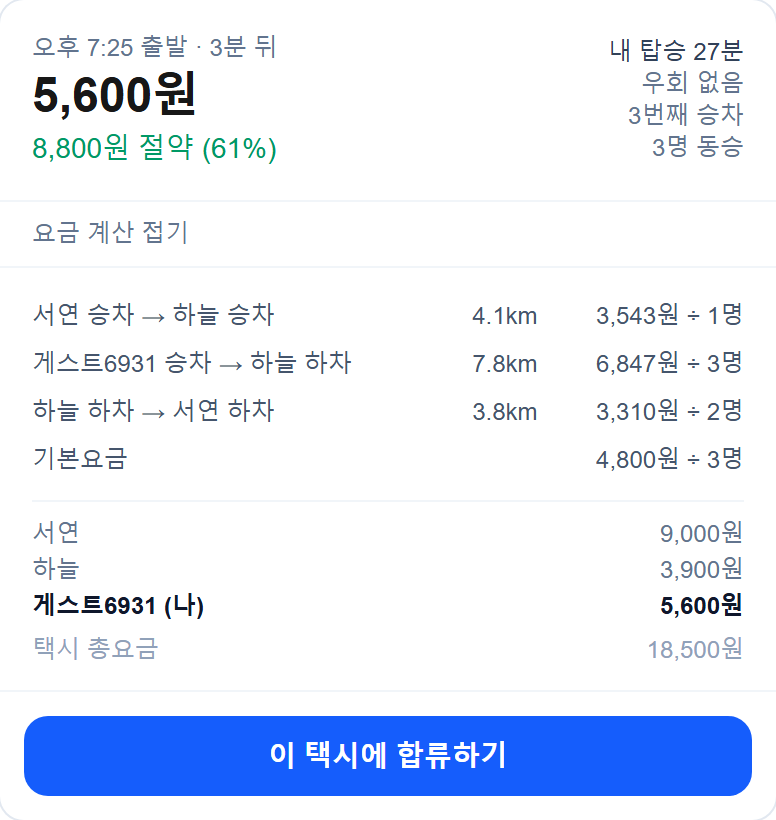
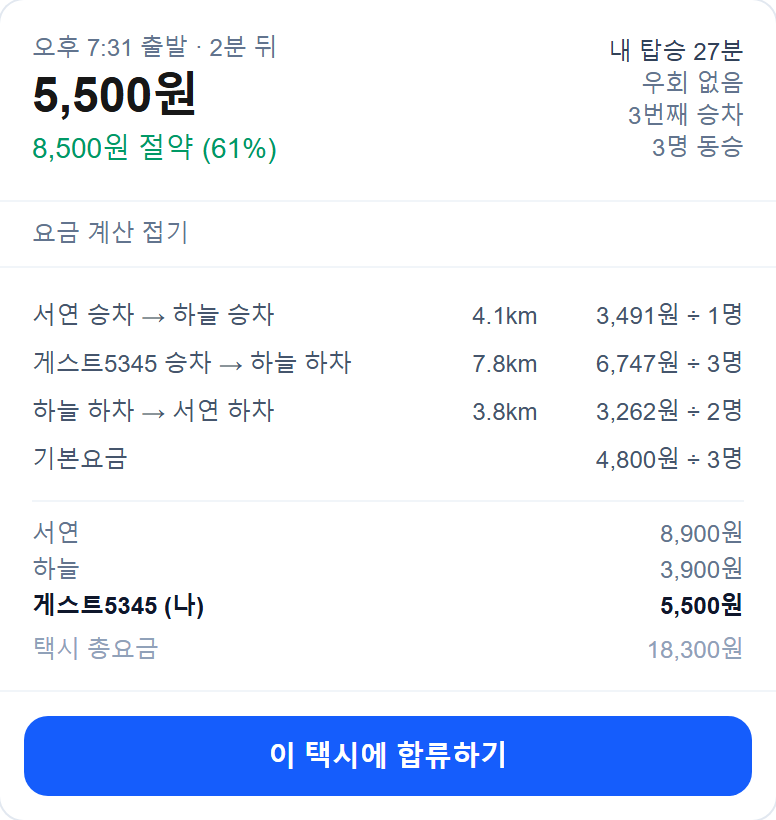
docs: 스크린샷을 새 서비스명으로 갱신
이름을 바꾼 뒤 스크린샷에 옛 이름이 남아 있었다.
README 의 정산 예시 숫자도 새 화면과 일치시켰다.

diff --git a/README.md b/README.md
@@ -19,15 +19,15 @@
 <img src="public/screenshots/3-breakdown.png" width="380" alt="구간별 정산 근거" />
 
 ```
-서연 승차 → 하늘 승차      4.1km    3,543원 ÷ 1명   ← 서연 혼자
-하늘 승차 → 하늘 하차      7.8km    6,847원 ÷ 3명   ← 셋이 함께
-하늘 하차 → 서연 하차      3.8km    3,310원 ÷ 2명   ← 하늘이 내린 뒤
+서연 승차 → 하늘 승차      4.1km    3,491원 ÷ 1명   ← 서연 혼자
+나 승차   → 하늘 하차      7.8km    6,747원 ÷ 3명   ← 셋이 함께
+하늘 하차 → 서연 하차      3.8km    3,262원 ÷ 2명   ← 하늘이 내린 뒤
 기본요금                            4,800원 ÷ 3명
 
-→ 서연 9,000원 · 하늘 3,900원 · 나 5,600원 = 18,500원 (택시 총요금과 일치)
+→ 서연 8,900원 · 하늘 3,900원 · 나 5,500원 = 18,300원 (택시 총요금과 일치)
 ```
 
-혼자 탔다면 14,400원이었을 사람이 **5,600원, 61% 절약**합니다.
+혼자 탔다면 14,000원이었을 사람이 **5,500원, 61% 절약**합니다.
 
 **"왜 내가 이 금액인지"를 펼쳐서 확인할 수 있다는 점**이 이 서비스의 핵심입니다. 금액만 통보하면 아무도 납득하지 않습니다.
 
